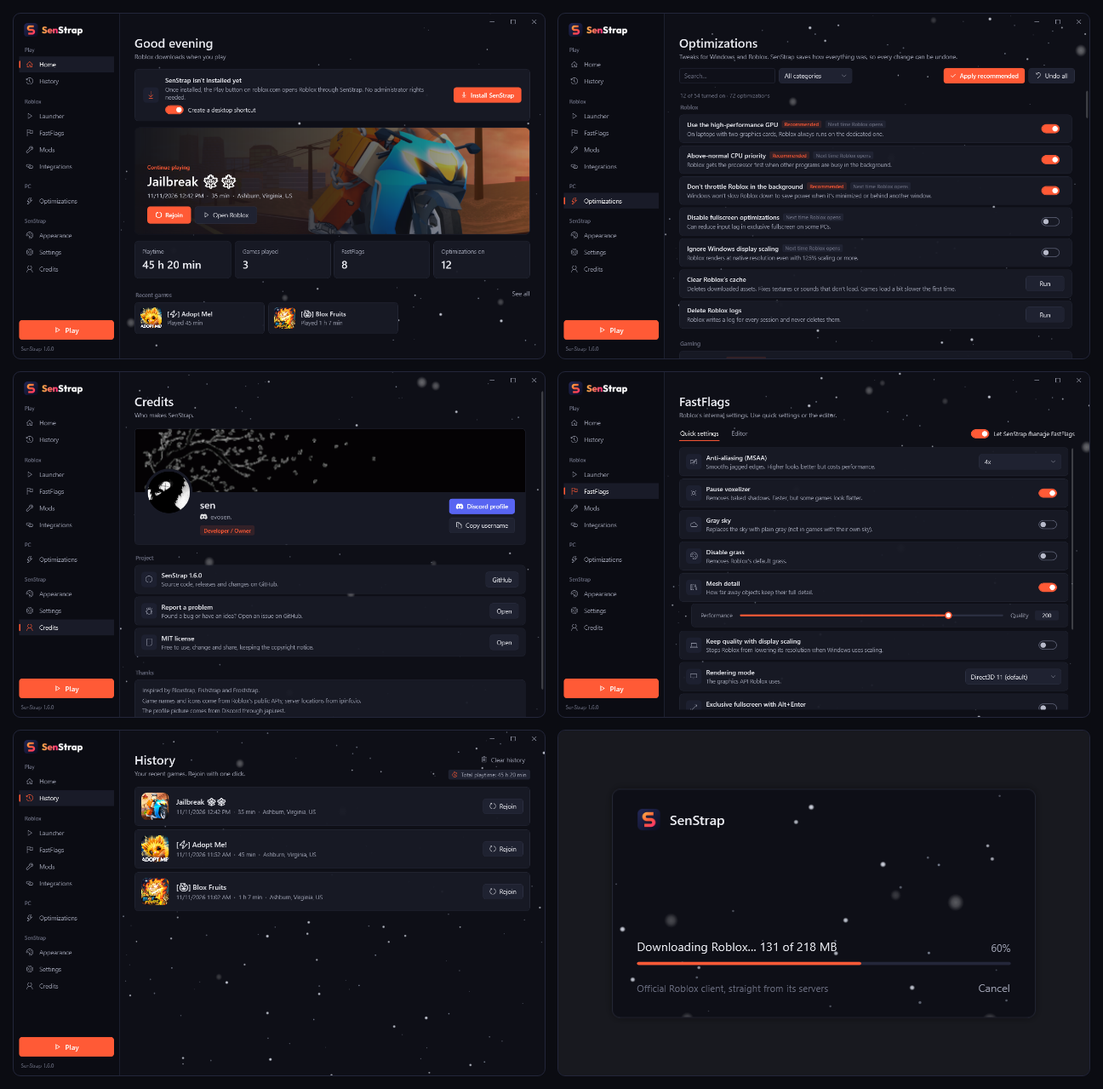
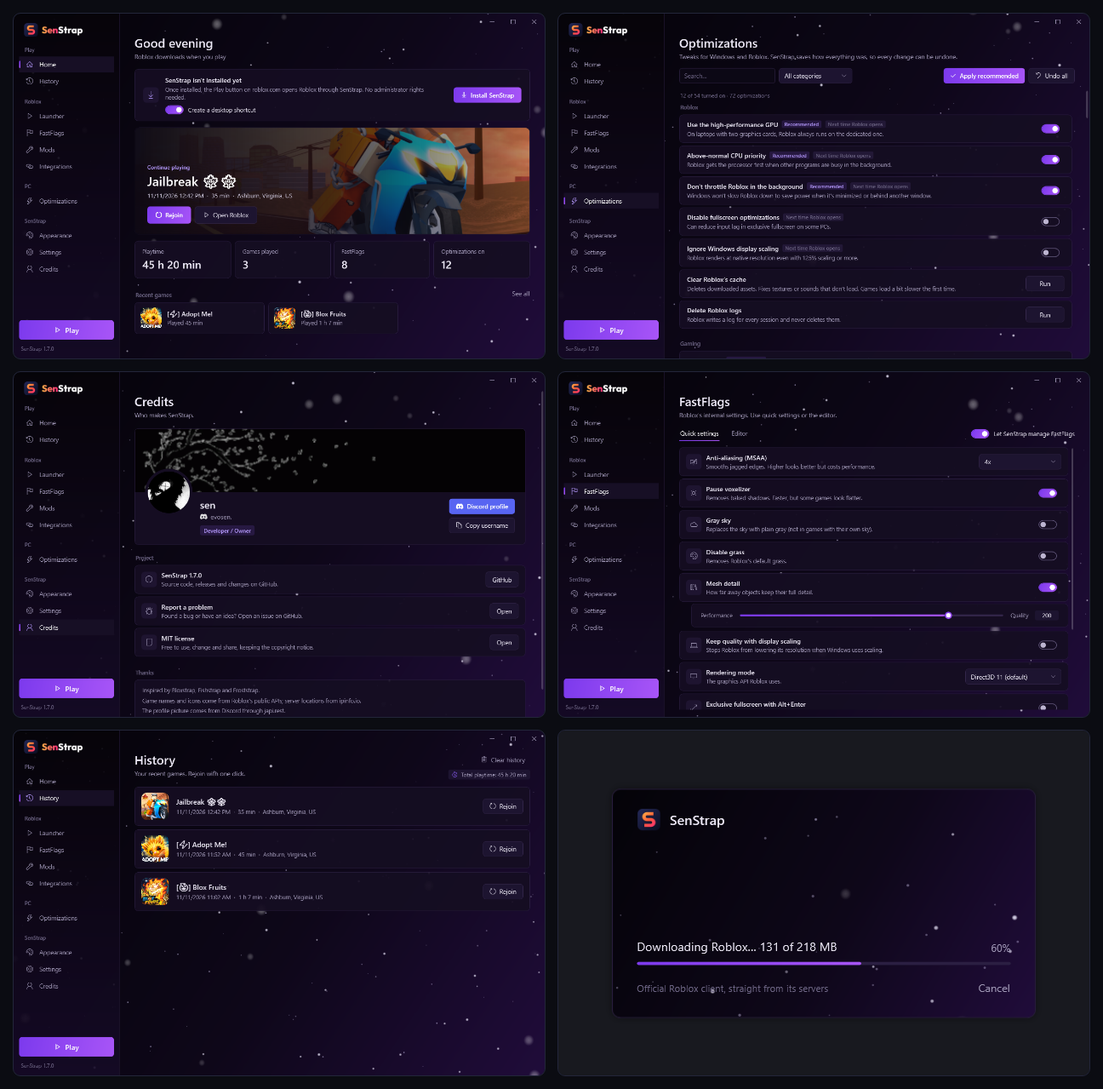
SenStrap 1.7.0: black and dark violet theme
- Window, sidebar, loading and welcome backgrounds use black to dark
  violet gradients.
- Violet gradient accent (buttons, toggles, progress) replaces orange;
  a lighter violet is used for accent text and icons.
- Cards, borders, text and snow tinted violet to match.

diff --git a/SenStrap/UI/Theme.xaml b/SenStrap/UI/Theme.xaml
@@ -7,22 +7,41 @@
     <FontFamily x:Key="IconFont">Segoe Fluent Icons, Segoe MDL2 Assets</FontFamily>
 
     <!-- Colors: flat surfaces, one accent -->
-    <SolidColorBrush x:Key="BgBrush" Color="#0E0F17" />
-    <SolidColorBrush x:Key="SidebarBrush" Color="#0B0C13" />
-    <SolidColorBrush x:Key="PanelBrush" Color="#D9121320" />
-    <SolidColorBrush x:Key="CardBrush" Color="#F2171925" />
-    <SolidColorBrush x:Key="CardHoverBrush" Color="#F21C1F2D" />
-    <SolidColorBrush x:Key="CardBorderBrush" Color="#252837" />
-    <SolidColorBrush x:Key="DividerBrush" Color="#1E2130" />
-    <SolidColorBrush x:Key="TextBrush" Color="#E9EAF0" />
-    <SolidColorBrush x:Key="MutedBrush" Color="#9598A8" />
-    <SolidColorBrush x:Key="SubtleBrush" Color="#646779" />
-    <SolidColorBrush x:Key="AccentSolidBrush" Color="#FF5A36" />
-    <SolidColorBrush x:Key="AccentBrush" Color="#FF5A36" />
-    <SolidColorBrush x:Key="AccentHorizontalBrush" Color="#FF5A36" />
-    <SolidColorBrush x:Key="AccentHoverBrush" Color="#FF6F4F" />
-    <SolidColorBrush x:Key="AccentPressedBrush" Color="#E84A28" />
-    <SolidColorBrush x:Key="AccentTintBrush" Color="#1FFF5A36" />
+    <!-- Black to dark violet -->
+    <LinearGradientBrush x:Key="BgBrush" StartPoint="0,0" EndPoint="1,1">
+        <GradientStop Offset="0" Color="#040308" />
+        <GradientStop Offset="0.55" Color="#0E0719" />
+        <GradientStop Offset="1" Color="#200C3A" />
+    </LinearGradientBrush>
+    <LinearGradientBrush x:Key="SidebarBrush" StartPoint="0,0" EndPoint="0,1">
+        <GradientStop Offset="0" Color="#E6060409" />
+        <GradientStop Offset="1" Color="#E6150A26" />
+    </LinearGradientBrush>
+    <SolidColorBrush x:Key="PanelBrush" Color="#D912091D" />
+    <SolidColorBrush x:Key="CardBrush" Color="#EC140D22" />
+    <SolidColorBrush x:Key="CardHoverBrush" Color="#EC1B1230" />
+    <SolidColorBrush x:Key="CardBorderBrush" Color="#2A1E40" />
+    <SolidColorBrush x:Key="DividerBrush" Color="#1B1229" />
+    <SolidColorBrush x:Key="TextBrush" Color="#ECE8F5" />
+    <SolidColorBrush x:Key="MutedBrush" Color="#9D95B3" />
+    <SolidColorBrush x:Key="SubtleBrush" Color="#6B6382" />
+    <SolidColorBrush x:Key="AccentSolidBrush" Color="#8B5CF6" />
+    <LinearGradientBrush x:Key="AccentBrush" StartPoint="0,0" EndPoint="1,1">
+        <GradientStop Offset="0" Color="#7C3AED" />
+        <GradientStop Offset="1" Color="#A855F7" />
+    </LinearGradientBrush>
+    <SolidColorBrush x:Key="AccentHorizontalBrush" Color="#8B5CF6" />
+    <LinearGradientBrush x:Key="AccentHoverBrush" StartPoint="0,0" EndPoint="1,1">
+        <GradientStop Offset="0" Color="#8B5CF6" />
+        <GradientStop Offset="1" Color="#B977F9" />
+    </LinearGradientBrush>
+    <LinearGradientBrush x:Key="AccentPressedBrush" StartPoint="0,0" EndPoint="1,1">
+        <GradientStop Offset="0" Color="#6D28D9" />
+        <GradientStop Offset="1" Color="#9333EA" />
+    </LinearGradientBrush>
+    <SolidColorBrush x:Key="AccentTintBrush" Color="#268B5CF6" />
+    <!-- Accent for text and icons: lighter so it reads well on the dark violet -->
+    <SolidColorBrush x:Key="AccentTextBrush" Color="#B79BFF" />
     <SolidColorBrush x:Key="OkBrush" Color="#4CC38A" />
     <SolidColorBrush x:Key="ErrorBrush" Color="#F0616D" />
     <SolidColorBrush x:Key="WarnBrush" Color="#E8B44C" />
@@ -115,12 +134,12 @@
         <Setter Property="Width" Value="34" />
         <Setter Property="Height" Value="34" />
         <Setter Property="CornerRadius" Value="7" />
-        <Setter Property="Background" Value="#1D2030" />
+        <Setter Property="Background" Value="#1E1430" />
         <Setter Property="VerticalAlignment" Value="Center" />
     </Style>
 
     <Style x:Key="Chip" TargetType="Border">
-        <Setter Property="Background" Value="#1F2231" />
+        <Setter Property="Background" Value="#1D1430" />
         <Setter Property="CornerRadius" Value="4" />
         <Setter Property="Padding" Value="8,3" />
         <Setter Property="Margin" Value="0,0,6,6" />
@@ -170,8 +189,8 @@
 
     <Style x:Key="SecondaryButton" TargetType="Button">
         <Setter Property="Foreground" Value="{StaticResource TextBrush}" />
-        <Setter Property="Background" Value="#1F2231" />
-        <Setter Property="BorderBrush" Value="#2C3042" />
+        <Setter Property="Background" Value="#1D1430" />
+        <Setter Property="BorderBrush" Value="#33264A" />
         <Setter Property="FontSize" Value="13.5" />
         <Setter Property="Padding" Value="14,7" />
         <Setter Property="Cursor" Value="Hand" />
@@ -184,10 +203,10 @@
                     </Border>
                     <ControlTemplate.Triggers>
                         <Trigger Property="IsMouseOver" Value="True">
-                            <Setter TargetName="Bd" Property="Background" Value="#282C3D" />
+                            <Setter TargetName="Bd" Property="Background" Value="#2A1E40" />
                         </Trigger>
                         <Trigger Property="IsPressed" Value="True">
-                            <Setter TargetName="Bd" Property="Background" Value="#1A1D2A" />
+                            <Setter TargetName="Bd" Property="Background" Value="#1A1228" />
                         </Trigger>
                         <Trigger Property="IsEnabled" Value="False">
                             <Setter TargetName="Bd" Property="Opacity" Value="0.4" />
@@ -243,7 +262,7 @@
                     </Grid>
                     <ControlTemplate.Triggers>
                         <Trigger Property="IsMouseOver" Value="True">
-                            <Setter TargetName="Bd" Property="Background" Value="#1C1E2A" />
+                            <Setter TargetName="Bd" Property="Background" Value="#1C1428" />
                             <Setter Property="Foreground" Value="White" />
                         </Trigger>
                     </ControlTemplate.Triggers>
@@ -285,7 +304,7 @@
                     <ControlTemplate.Triggers>
                         <Trigger Property="IsMouseOver" Value="True">
                             <Setter TargetName="Bd" Property="Background" Value="{StaticResource CardHoverBrush}" />
-                            <Setter TargetName="Bd" Property="BorderBrush" Value="#33374A" />
+                            <Setter TargetName="Bd" Property="BorderBrush" Value="#3A2B54" />
                         </Trigger>
                     </ControlTemplate.Triggers>
                 </ControlTemplate>
@@ -320,13 +339,13 @@
                     </Grid>
                     <ControlTemplate.Triggers>
                         <Trigger Property="IsMouseOver" Value="True">
-                            <Setter TargetName="Bd" Property="Background" Value="#141622" />
+                            <Setter TargetName="Bd" Property="Background" Value="#140E20" />
                             <Setter Property="Foreground" Value="{StaticResource TextBrush}" />
                         </Trigger>
                         <Trigger Property="IsChecked" Value="True">
-                            <Setter TargetName="Bd" Property="Background" Value="#191B28" />
+                            <Setter TargetName="Bd" Property="Background" Value="#170F25" />
                             <Setter TargetName="Indicator" Property="Visibility" Value="Visible" />
-                            <Setter TargetName="Icon" Property="Foreground" Value="{StaticResource AccentBrush}" />
+                            <Setter TargetName="Icon" Property="Foreground" Value="{StaticResource AccentTextBrush}" />
                             <Setter Property="Foreground" Value="White" />
                         </Trigger>
                     </ControlTemplate.Triggers>
@@ -348,8 +367,8 @@
                             <ColumnDefinition Width="Auto" />
                         </Grid.ColumnDefinitions>
                         <Grid Width="40" Height="20" VerticalAlignment="Center">
-                            <Border x:Name="Track" CornerRadius="10" Background="Transparent" BorderBrush="#5A5E72" BorderThickness="1.5" />
-                            <Ellipse x:Name="Knob" Width="12" Height="12" Fill="#B7BACA" HorizontalAlignment="Left" Margin="4,0" />
+                            <Border x:Name="Track" CornerRadius="10" Background="Transparent" BorderBrush="#5F5478" BorderThickness="1.5" />
+                            <Ellipse x:Name="Knob" Width="12" Height="12" Fill="#BDB5D1" HorizontalAlignment="Left" Margin="4,0" />
                         </Grid>
                         <ContentPresenter Grid.Column="1" Margin="10,0,0,0" VerticalAlignment="Center" />
                     </Grid>
@@ -379,14 +398,14 @@
         <Setter Property="Template">
             <Setter.Value>
                 <ControlTemplate TargetType="ToggleButton">
-                    <Border x:Name="Bd" Background="#1F2231" BorderBrush="#2C3042" BorderThickness="1" CornerRadius="6">
+                    <Border x:Name="Bd" Background="#1D1430" BorderBrush="#33264A" BorderThickness="1" CornerRadius="6">
                         <TextBlock Text="&#xE70D;" FontFamily="{StaticResource IconFont}" FontSize="10"
                                    Foreground="{StaticResource MutedBrush}" HorizontalAlignment="Right"
                                    VerticalAlignment="Center" Margin="0,0,12,0" />
                     </Border>
                     <ControlTemplate.Triggers>
                         <Trigger Property="IsMouseOver" Value="True">
-                            <Setter TargetName="Bd" Property="Background" Value="#262A3A" />
+                            <Setter TargetName="Bd" Property="Background" Value="#281C3C" />
                         </Trigger>
                         <Trigger Property="IsChecked" Value="True">
                             <Setter TargetName="Bd" Property="BorderBrush" Value="{StaticResource AccentBrush}" />
@@ -409,10 +428,10 @@
                     </Border>
                     <ControlTemplate.Triggers>
                         <Trigger Property="IsSelected" Value="True">
-                            <Setter TargetName="Bd" Property="Background" Value="#2A2D3D" />
+                            <Setter TargetName="Bd" Property="Background" Value="#2E2142" />
                         </Trigger>
                         <Trigger Property="IsHighlighted" Value="True">
-                            <Setter TargetName="Bd" Property="Background" Value="#23263A" />
+                            <Setter TargetName="Bd" Property="Background" Value="#261A3C" />
                         </Trigger>
                     </ControlTemplate.Triggers>
                 </ControlTemplate>
@@ -439,7 +458,7 @@
                                           ContentTemplateSelector="{TemplateBinding ItemTemplateSelector}" />
                         <Popup x:Name="PART_Popup" Placement="Bottom" VerticalOffset="4" AllowsTransparency="True"
                                Focusable="False" PopupAnimation="None" IsOpen="{TemplateBinding IsDropDownOpen}">
-                            <Border Background="#191B28" BorderBrush="#2C3042" BorderThickness="1" CornerRadius="6" Padding="4"
+                            <Border Background="#170F25" BorderBrush="#33264A" BorderThickness="1" CornerRadius="6" Padding="4"
                                     MinWidth="{Binding ActualWidth, RelativeSource={RelativeSource TemplatedParent}}"
                                     MaxHeight="{TemplateBinding MaxDropDownHeight}">
                                 <ScrollViewer SnapsToDevicePixels="True">
@@ -457,7 +476,7 @@
     <Style x:Key="CodeBox" TargetType="TextBox">
         <Setter Property="Foreground" Value="{StaticResource TextBrush}" />
         <Setter Property="CaretBrush" Value="White" />
-        <Setter Property="SelectionBrush" Value="#FF5A36" />
+        <Setter Property="SelectionBrush" Value="#8B5CF6" />
         <Setter Property="FontFamily" Value="Cascadia Mono, Consolas" />
         <Setter Property="FontSize" Value="13" />
         <Setter Property="Padding" Value="12,10" />
@@ -469,7 +488,7 @@
         <Setter Property="Template">
             <Setter.Value>
                 <ControlTemplate TargetType="TextBox">
-                    <Border x:Name="Bd" CornerRadius="6" Background="#0F1019" BorderBrush="#2C3042" BorderThickness="1">
+                    <Border x:Name="Bd" CornerRadius="6" Background="#0C0815" BorderBrush="#33264A" BorderThickness="1">
                         <ScrollViewer x:Name="PART_ContentHost" Margin="{TemplateBinding Padding}" />
                     </Border>
                     <ControlTemplate.Triggers>
@@ -542,7 +561,7 @@
         <Setter Property="Height" Value="4" />
         <Setter Property="Minimum" Value="0" />
         <Setter Property="Maximum" Value="1" />
-        <Setter Property="Background" Value="#24273A" />
+        <Setter Property="Background" Value="#2B1F42" />
         <Setter Property="Template">
             <Setter.Value>
                 <ControlTemplate TargetType="ProgressBar">
@@ -601,7 +620,7 @@
     <Style x:Key="Input" TargetType="TextBox">
         <Setter Property="Foreground" Value="{StaticResource TextBrush}" />
         <Setter Property="CaretBrush" Value="White" />
-        <Setter Property="SelectionBrush" Value="#FF5A36" />
+        <Setter Property="SelectionBrush" Value="#8B5CF6" />
         <Setter Property="FontSize" Value="13.5" />
         <Setter Property="Padding" Value="10,0" />
         <Setter Property="Height" Value="34" />
@@ -609,7 +628,7 @@
         <Setter Property="Template">
             <Setter.Value>
                 <ControlTemplate TargetType="TextBox">
-                    <Border x:Name="Bd" CornerRadius="6" Background="#0F1019" BorderBrush="#2C3042" BorderThickness="1">
+                    <Border x:Name="Bd" CornerRadius="6" Background="#0C0815" BorderBrush="#33264A" BorderThickness="1">
                         <Grid Margin="{TemplateBinding Padding}">
                             <TextBlock x:Name="Hint" Text="{Binding Tag, RelativeSource={RelativeSource TemplatedParent}}"
                                        Foreground="{StaticResource SubtleBrush}" VerticalAlignment="Center"
@@ -677,7 +696,7 @@
             <Setter.Value>
                 <ControlTemplate TargetType="RepeatButton">
                     <Grid Background="Transparent">
-                        <Border Height="4" CornerRadius="2" Background="#2C3042" />
+                        <Border Height="4" CornerRadius="2" Background="#33264A" />
                     </Grid>
                 </ControlTemplate>
             </Setter.Value>
@@ -756,7 +775,7 @@
                         <Grid>
                             <ContentPresenter Margin="12,9,28,9" VerticalAlignment="Center" />
                             <TextBlock x:Name="Check" Text="&#xE73E;" FontFamily="{StaticResource IconFont}" FontSize="12"
-                                       Foreground="{StaticResource AccentBrush}" HorizontalAlignment="Right"
+                                       Foreground="{StaticResource AccentTextBrush}" HorizontalAlignment="Right"
                                        VerticalAlignment="Center" Margin="0,0,10,0" Visibility="Hidden" />
                         </Grid>
                     </Border>

diff --git a/SenStrap/UI/Pages/HomePage.xaml b/SenStrap/UI/Pages/HomePage.xaml
@@ -16,7 +16,7 @@
                         <ColumnDefinition Width="Auto" />
                     </Grid.ColumnDefinitions>
                     <Border Style="{StaticResource IconBox}">
-                        <TextBlock Text="&#xE896;" Style="{StaticResource IconGlyph}" Foreground="{StaticResource AccentBrush}" />
+                        <TextBlock Text="&#xE896;" Style="{StaticResource IconGlyph}" Foreground="{StaticResource AccentTextBrush}" />
                     </Border>
                     <StackPanel Grid.Column="1" Margin="14,0,18,0" VerticalAlignment="Center">
                         <TextBlock Text="{ui:Loc home.notInstalled}" Style="{StaticResource CardTitle}" />
@@ -35,7 +35,7 @@
 
             <!-- Banner: last game (or ready to play) -->
             <Grid Height="236">
-                <Border CornerRadius="10" Background="#171925" />
+                <Border CornerRadius="10" Background="#150D22" />
                 <Border CornerRadius="10" BorderBrush="{StaticResource CardBorderBrush}" BorderThickness="1">
                     <Border.Background>
                         <ImageBrush x:Name="HeroImage" Stretch="UniformToFill" AlignmentY="Center" />
@@ -45,9 +45,9 @@
                 <Border CornerRadius="10">
                     <Border.Background>
                         <LinearGradientBrush StartPoint="0,0" EndPoint="1,0">
-                            <GradientStop Offset="0" Color="#FA101119" />
-                            <GradientStop Offset="0.5" Color="#C0101119" />
-                            <GradientStop Offset="1" Color="#30101119" />
+                            <GradientStop Offset="0" Color="#FA0B0713" />
+                            <GradientStop Offset="0.5" Color="#C00B0713" />
+                            <GradientStop Offset="1" Color="#300B0713" />
                         </LinearGradientBrush>
                     </Border.Background>
                 </Border>
@@ -56,10 +56,10 @@
                        RenderOptions.BitmapScalingMode="HighQuality" />
 
                 <StackPanel VerticalAlignment="Bottom" Margin="28,0,28,24" MaxWidth="560" HorizontalAlignment="Left">
-                    <TextBlock x:Name="HeroLabel" FontSize="12" FontWeight="SemiBold" Foreground="{StaticResource AccentBrush}" />
+                    <TextBlock x:Name="HeroLabel" FontSize="12" FontWeight="SemiBold" Foreground="{StaticResource AccentTextBrush}" />
                     <TextBlock x:Name="HeroTitle" FontFamily="{StaticResource DisplayFont}" FontSize="28" FontWeight="SemiBold"
                                Foreground="White" Margin="0,4,0,0" TextTrimming="CharacterEllipsis" />
-                    <TextBlock x:Name="HeroDetails" FontSize="13" Foreground="#C9CBD6" Margin="0,4,0,16" TextWrapping="Wrap" />
+                    <TextBlock x:Name="HeroDetails" FontSize="13" Foreground="#CFC8DD" Margin="0,4,0,16" TextWrapping="Wrap" />
                     <StackPanel Orientation="Horizontal">
                         <Button x:Name="HeroRejoin" Style="{StaticResource PrimaryButton}" Padding="18,9" Click="Rejoin_Click">
                             <StackPanel Orientation="Horizontal">

diff --git a/SenStrap/UI/MainWindow.xaml b/SenStrap/UI/MainWindow.xaml
@@ -86,7 +86,7 @@
 
                 <!-- Unsaved changes (only while there are some) -->
                 <Border x:Name="DirtyBar" Grid.Row="1" VerticalAlignment="Bottom" HorizontalAlignment="Center" Margin="0,0,0,18"
-                        Padding="18,9,9,9" CornerRadius="8" Background="#1E2130" BorderBrush="#3A3F55" BorderThickness="1"
+                        Padding="18,9,9,9" CornerRadius="8" Background="#1B1229" BorderBrush="#3F2E5C" BorderThickness="1"
                         Visibility="Collapsed">
                     <StackPanel Orientation="Horizontal">
                         <Ellipse Width="7" Height="7" Fill="{StaticResource WarnBrush}" VerticalAlignment="Center" />
@@ -98,7 +98,7 @@
 
                 <!-- Toast -->
                 <Border x:Name="Toast" Grid.Row="1" VerticalAlignment="Bottom" HorizontalAlignment="Center" Margin="0,0,0,76"
-                        Padding="14,9" CornerRadius="6" Background="#1E2130" BorderBrush="#33374A"
+                        Padding="14,9" CornerRadius="6" Background="#1B1229" BorderBrush="#3A2B54"
                         BorderThickness="1" Visibility="Collapsed" IsHitTestVisible="False">
                     <StackPanel Orientation="Horizontal">
                         <TextBlock x:Name="ToastIcon" FontFamily="{StaticResource IconFont}" FontSize="13" VerticalAlignment="Center" />
@@ -114,7 +114,7 @@
                 <Image Source="/SenStrap;component/Resources/logo.png" Width="76" Height="76" RenderOptions.BitmapScalingMode="HighQuality" />
                 <TextBlock Text="SenStrap" Margin="0,16,0,0" FontSize="24" FontWeight="SemiBold" HorizontalAlignment="Center"
                            Foreground="{StaticResource TextBrush}" />
-                <Border Width="132" Height="2" Margin="0,18,0,0" CornerRadius="1" Background="#24273A">
+                <Border Width="132" Height="2" Margin="0,18,0,0" CornerRadius="1" Background="#2B1F42">
                     <Border x:Name="IntroBar" Width="0" HorizontalAlignment="Left" CornerRadius="1" Background="{StaticResource AccentBrush}" />
                 </Border>
             </StackPanel>

diff --git a/SenStrap/UI/Pages/CreditsPage.xaml b/SenStrap/UI/Pages/CreditsPage.xaml
@@ -9,7 +9,7 @@
             <TextBlock Text="{ui:Loc credits.subtitle}" Style="{StaticResource PageSubtitle}" />
 
             <!-- Developer -->
-            <Border Background="#171925" BorderBrush="{StaticResource CardBorderBrush}" BorderThickness="1" CornerRadius="8">
+            <Border Background="#150D22" BorderBrush="{StaticResource CardBorderBrush}" BorderThickness="1" CornerRadius="8">
                 <Grid>
                     <Grid.RowDefinitions>
                         <RowDefinition Height="140" />
@@ -31,7 +31,7 @@
                         </Grid.ColumnDefinitions>
 
                         <Grid Width="104" Height="104" Margin="0,-52,0,0" VerticalAlignment="Top">
-                            <Ellipse Fill="#171925" />
+                            <Ellipse Fill="#150D22" />
                             <Ellipse Margin="6">
                                 <Ellipse.Fill>
                                     <ImageBrush x:Name="AvatarBrush" Stretch="UniformToFill"
@@ -51,7 +51,7 @@
                             </StackPanel>
                             <Border Style="{StaticResource Chip}" Background="{StaticResource AccentTintBrush}" HorizontalAlignment="Left"
                                     Margin="0,10,0,0">
-                                <TextBlock Text="{ui:Loc credits.role}" FontSize="12" FontWeight="SemiBold" Foreground="{StaticResource AccentBrush}" />
+                                <TextBlock Text="{ui:Loc credits.role}" FontSize="12" FontWeight="SemiBold" Foreground="{StaticResource AccentTextBrush}" />
                             </Border>
                         </StackPanel>
 

diff --git a/SenStrap/UI/Pages/OptimizationsPage.xaml b/SenStrap/UI/Pages/OptimizationsPage.xaml
@@ -57,7 +57,7 @@
 
             <!-- Pending changes -->
             <Border x:Name="PendingBar" VerticalAlignment="Bottom" Margin="32,0,32,16" Padding="16,10" CornerRadius="8"
-                    Background="#1E2130" BorderBrush="#3A3F55" BorderThickness="1" Visibility="Collapsed">
+                    Background="#1B1229" BorderBrush="#3F2E5C" BorderThickness="1" Visibility="Collapsed">
                 <DockPanel>
                     <StackPanel DockPanel.Dock="Right" Orientation="Horizontal">
                         <Button x:Name="DiscardButton" Style="{StaticResource GhostButton}" Content="{ui:Loc opt.discard}" Click="Discard_Click" />

diff --git a/SenStrap/UI/Pages/OptimizationsPage.xaml.cs b/SenStrap/UI/Pages/OptimizationsPage.xaml.cs
@@ -82,7 +82,7 @@ public partial class OptimizationsPage : ShellPage
             TextTrimming = TextTrimming.None,
             VerticalAlignment = VerticalAlignment.Center,
         });
-        if (tweak.Recommended) titleLine.Children.Add(Badge(Lang.T("opt.badge.recommended"), "AccentTintBrush", "AccentBrush"));
+        if (tweak.Recommended) titleLine.Children.Add(Badge(Lang.T("opt.badge.recommended"), "AccentTintBrush", "AccentTextBrush"));
         if (tweak.Admin) titleLine.Children.Add(Badge(Lang.T("opt.badge.admin"), null, "MutedBrush", ""));
         if (tweak.Caution) titleLine.Children.Add(Badge(Lang.T("opt.badge.caution"), null, "WarnBrush"));
         string? note = tweak.Note switch
@@ -172,7 +172,7 @@ public partial class OptimizationsPage : ShellPage
         return new Border
         {
             Style = (Style)FindResource("Badge"),
-            Background = backgroundKey is null ? new SolidColorBrush(Color.FromRgb(0x20, 0x23, 0x32)) : (Brush)FindResource(backgroundKey),
+            Background = backgroundKey is null ? new SolidColorBrush(Color.FromRgb(0x22, 0x18, 0x36)) : (Brush)FindResource(backgroundKey),
             Child = content,
         };
     }

diff --git a/SenStrap/UI/Controls/Snowfall.cs b/SenStrap/UI/Controls/Snowfall.cs
@@ -213,8 +213,8 @@ public sealed class Snowfall : FrameworkElement
 
     private static Brush[][] BuildBrushes()
     {
-        // Far flakes are slightly blue (they are seen through more air)
-        var colors = new[] { Color.FromRgb(214, 226, 250), Color.FromRgb(238, 243, 255), Color.FromRgb(255, 255, 255) };
+        // Far flakes are slightly lavender (they are seen through more of the violet air)
+        var colors = new[] { Color.FromRgb(218, 208, 250), Color.FromRgb(240, 236, 255), Color.FromRgb(255, 255, 255) };
         var result = new Brush[3][];
         for (int layer = 0; layer < 3; layer++)
         {

diff --git a/README.md b/README.md
@@ -47,7 +47,7 @@ SenStrap **doesn't modify the game**: it downloads the official Roblox client fr
   - Game history with **Rejoin**.
   - Auto rejoin: if Roblox loses connection to the server (error 277, 266 or 279), it waits a few seconds in case it reconnects on its own; if not, it closes the disconnected Roblox and rejoins the same server. Never after a kick (267), the anti-cheat (268) or a session opened elsewhere (273). At most 3 times every 15 minutes.
 - **Interface**:
-  - Flat design with one accent color, a grouped sidebar with a **Play** button always at hand, and rounded window corners on Windows 11.
+  - Black and dark violet gradients with a violet accent, a grouped sidebar with a **Play** button always at hand, and rounded window corners on Windows 11.
   - Home dashboard: your last game with its Roblox thumbnail and a **Rejoin** button, playtime, games played, FastFlags and optimizations at a glance, and your recent games.
   - No Save/Close bar in the way: a bar with **Save** and **Discard** only shows up when you have unsaved changes.
   - Snow falling behind the windows, with depth (small, dim flakes far away; large, soft ones up close), slow wind gusts and its own sway for every flake.
